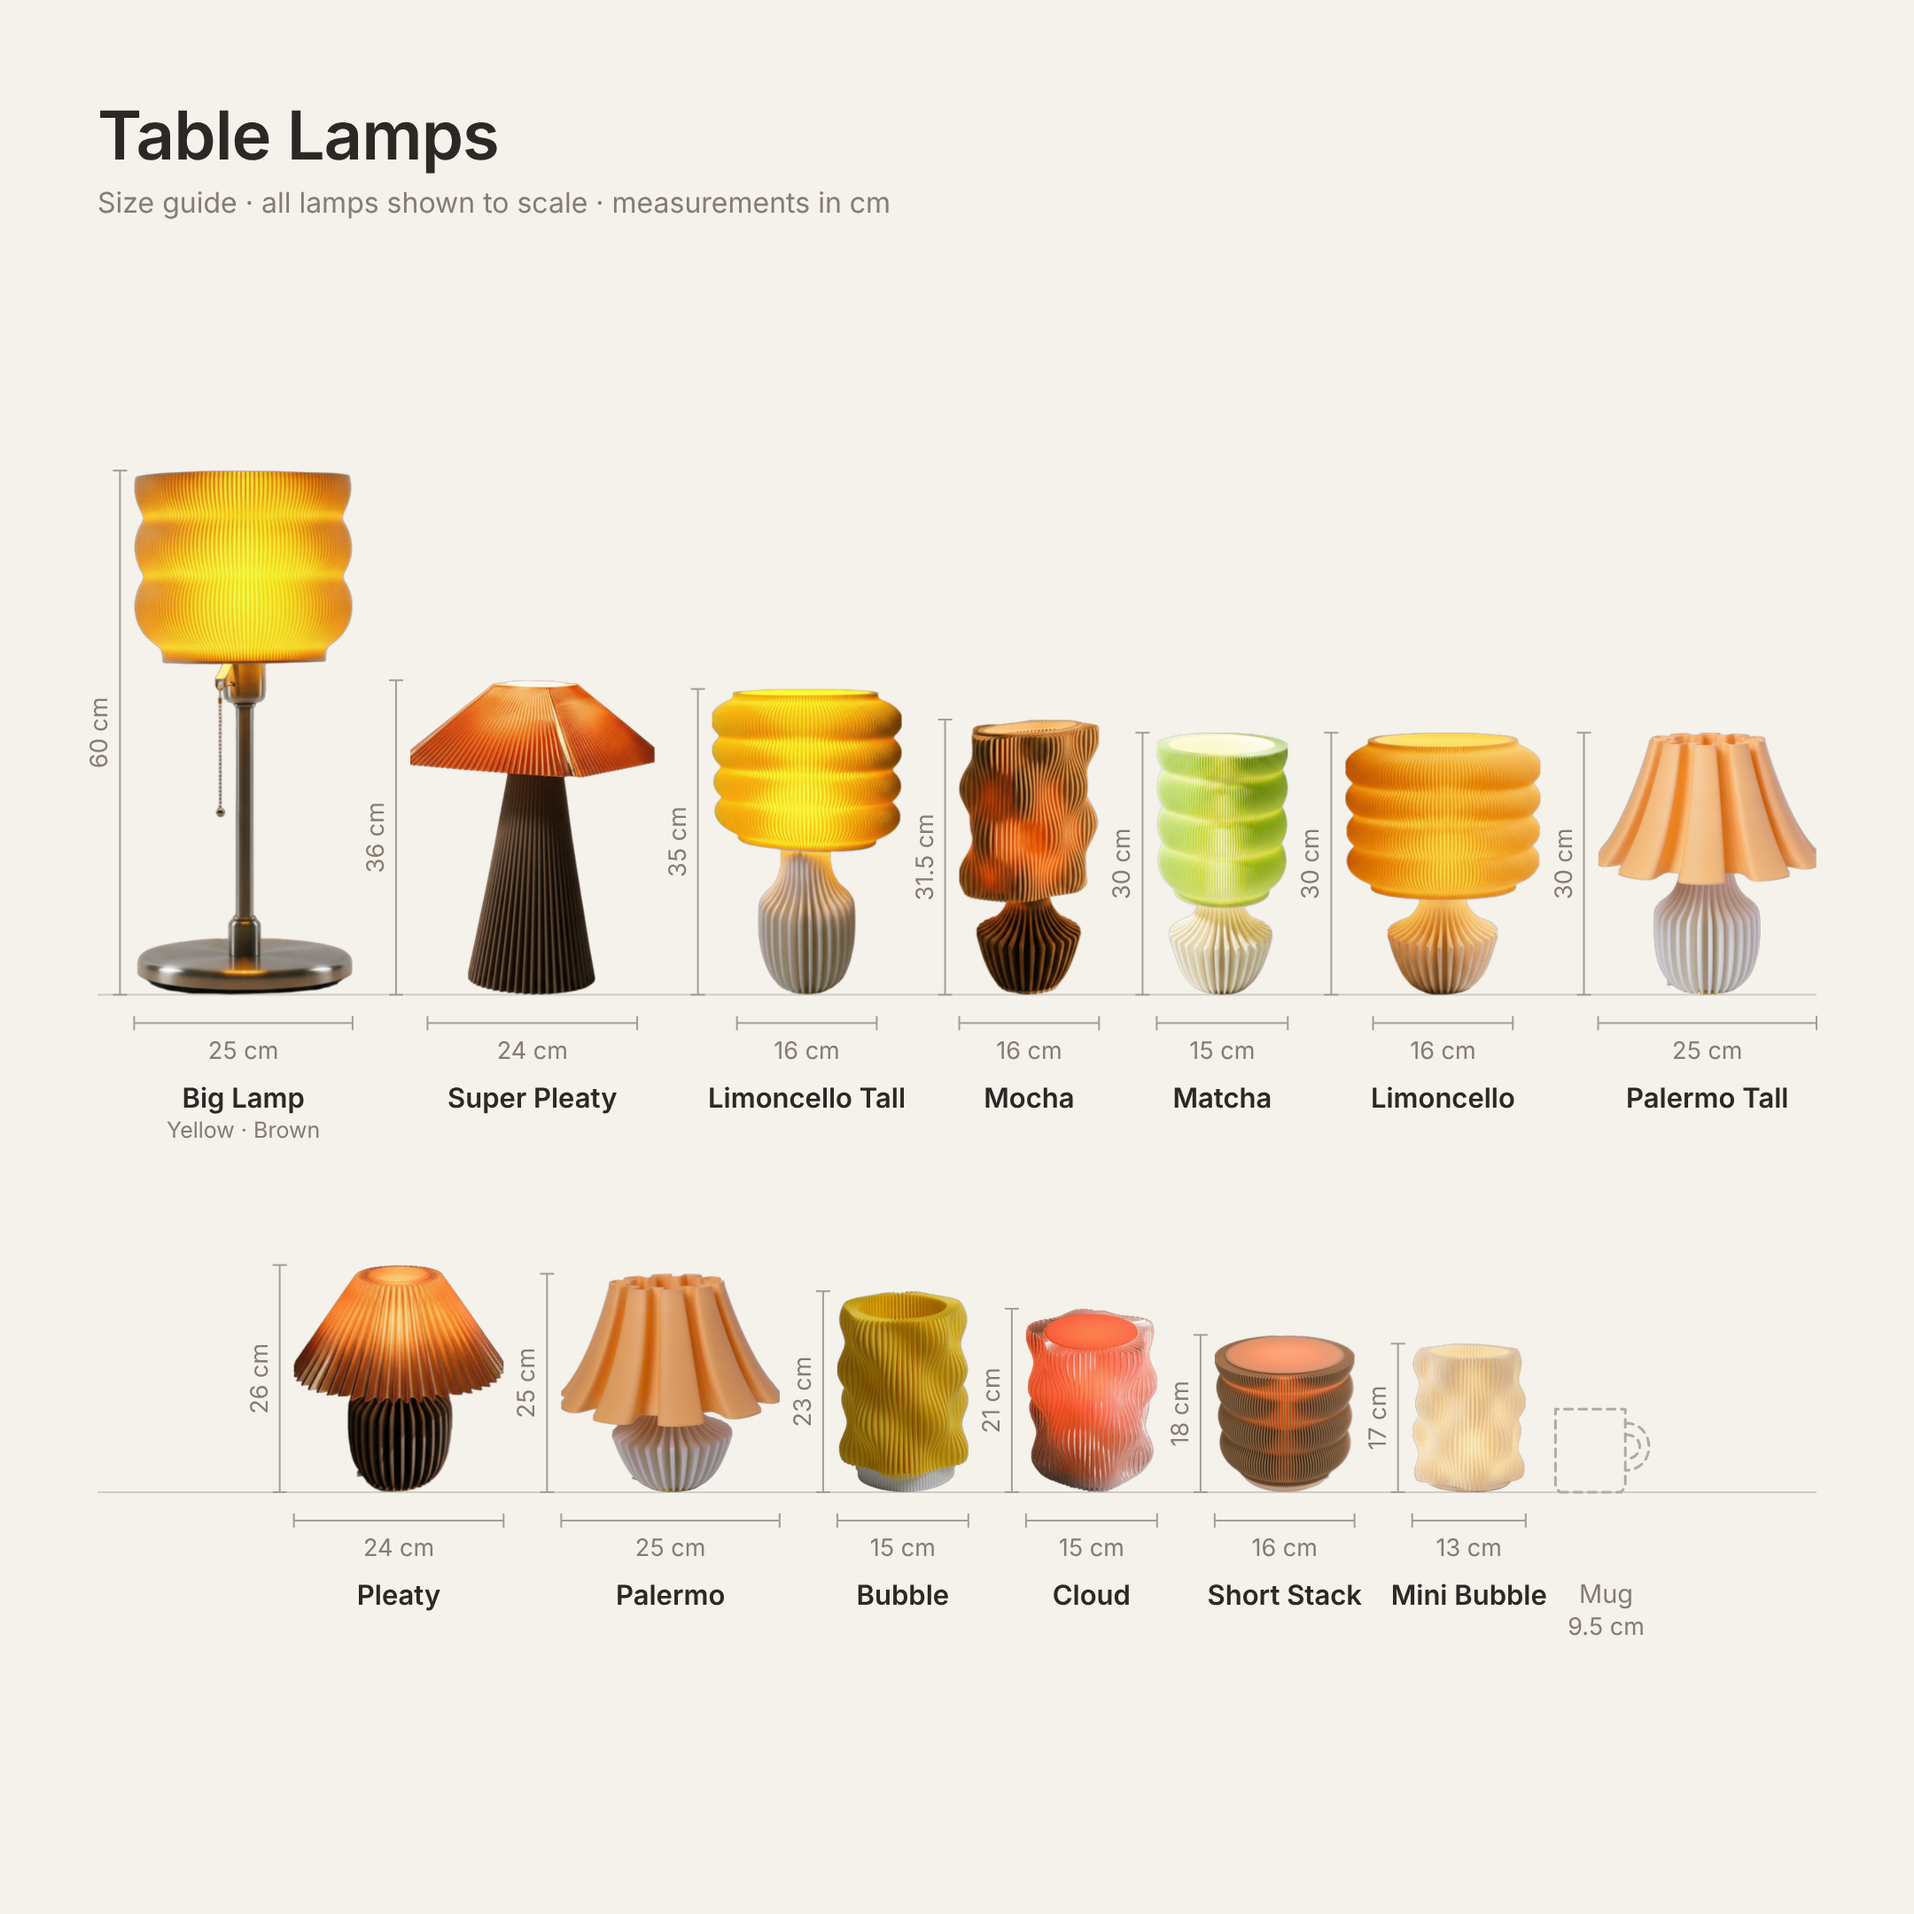
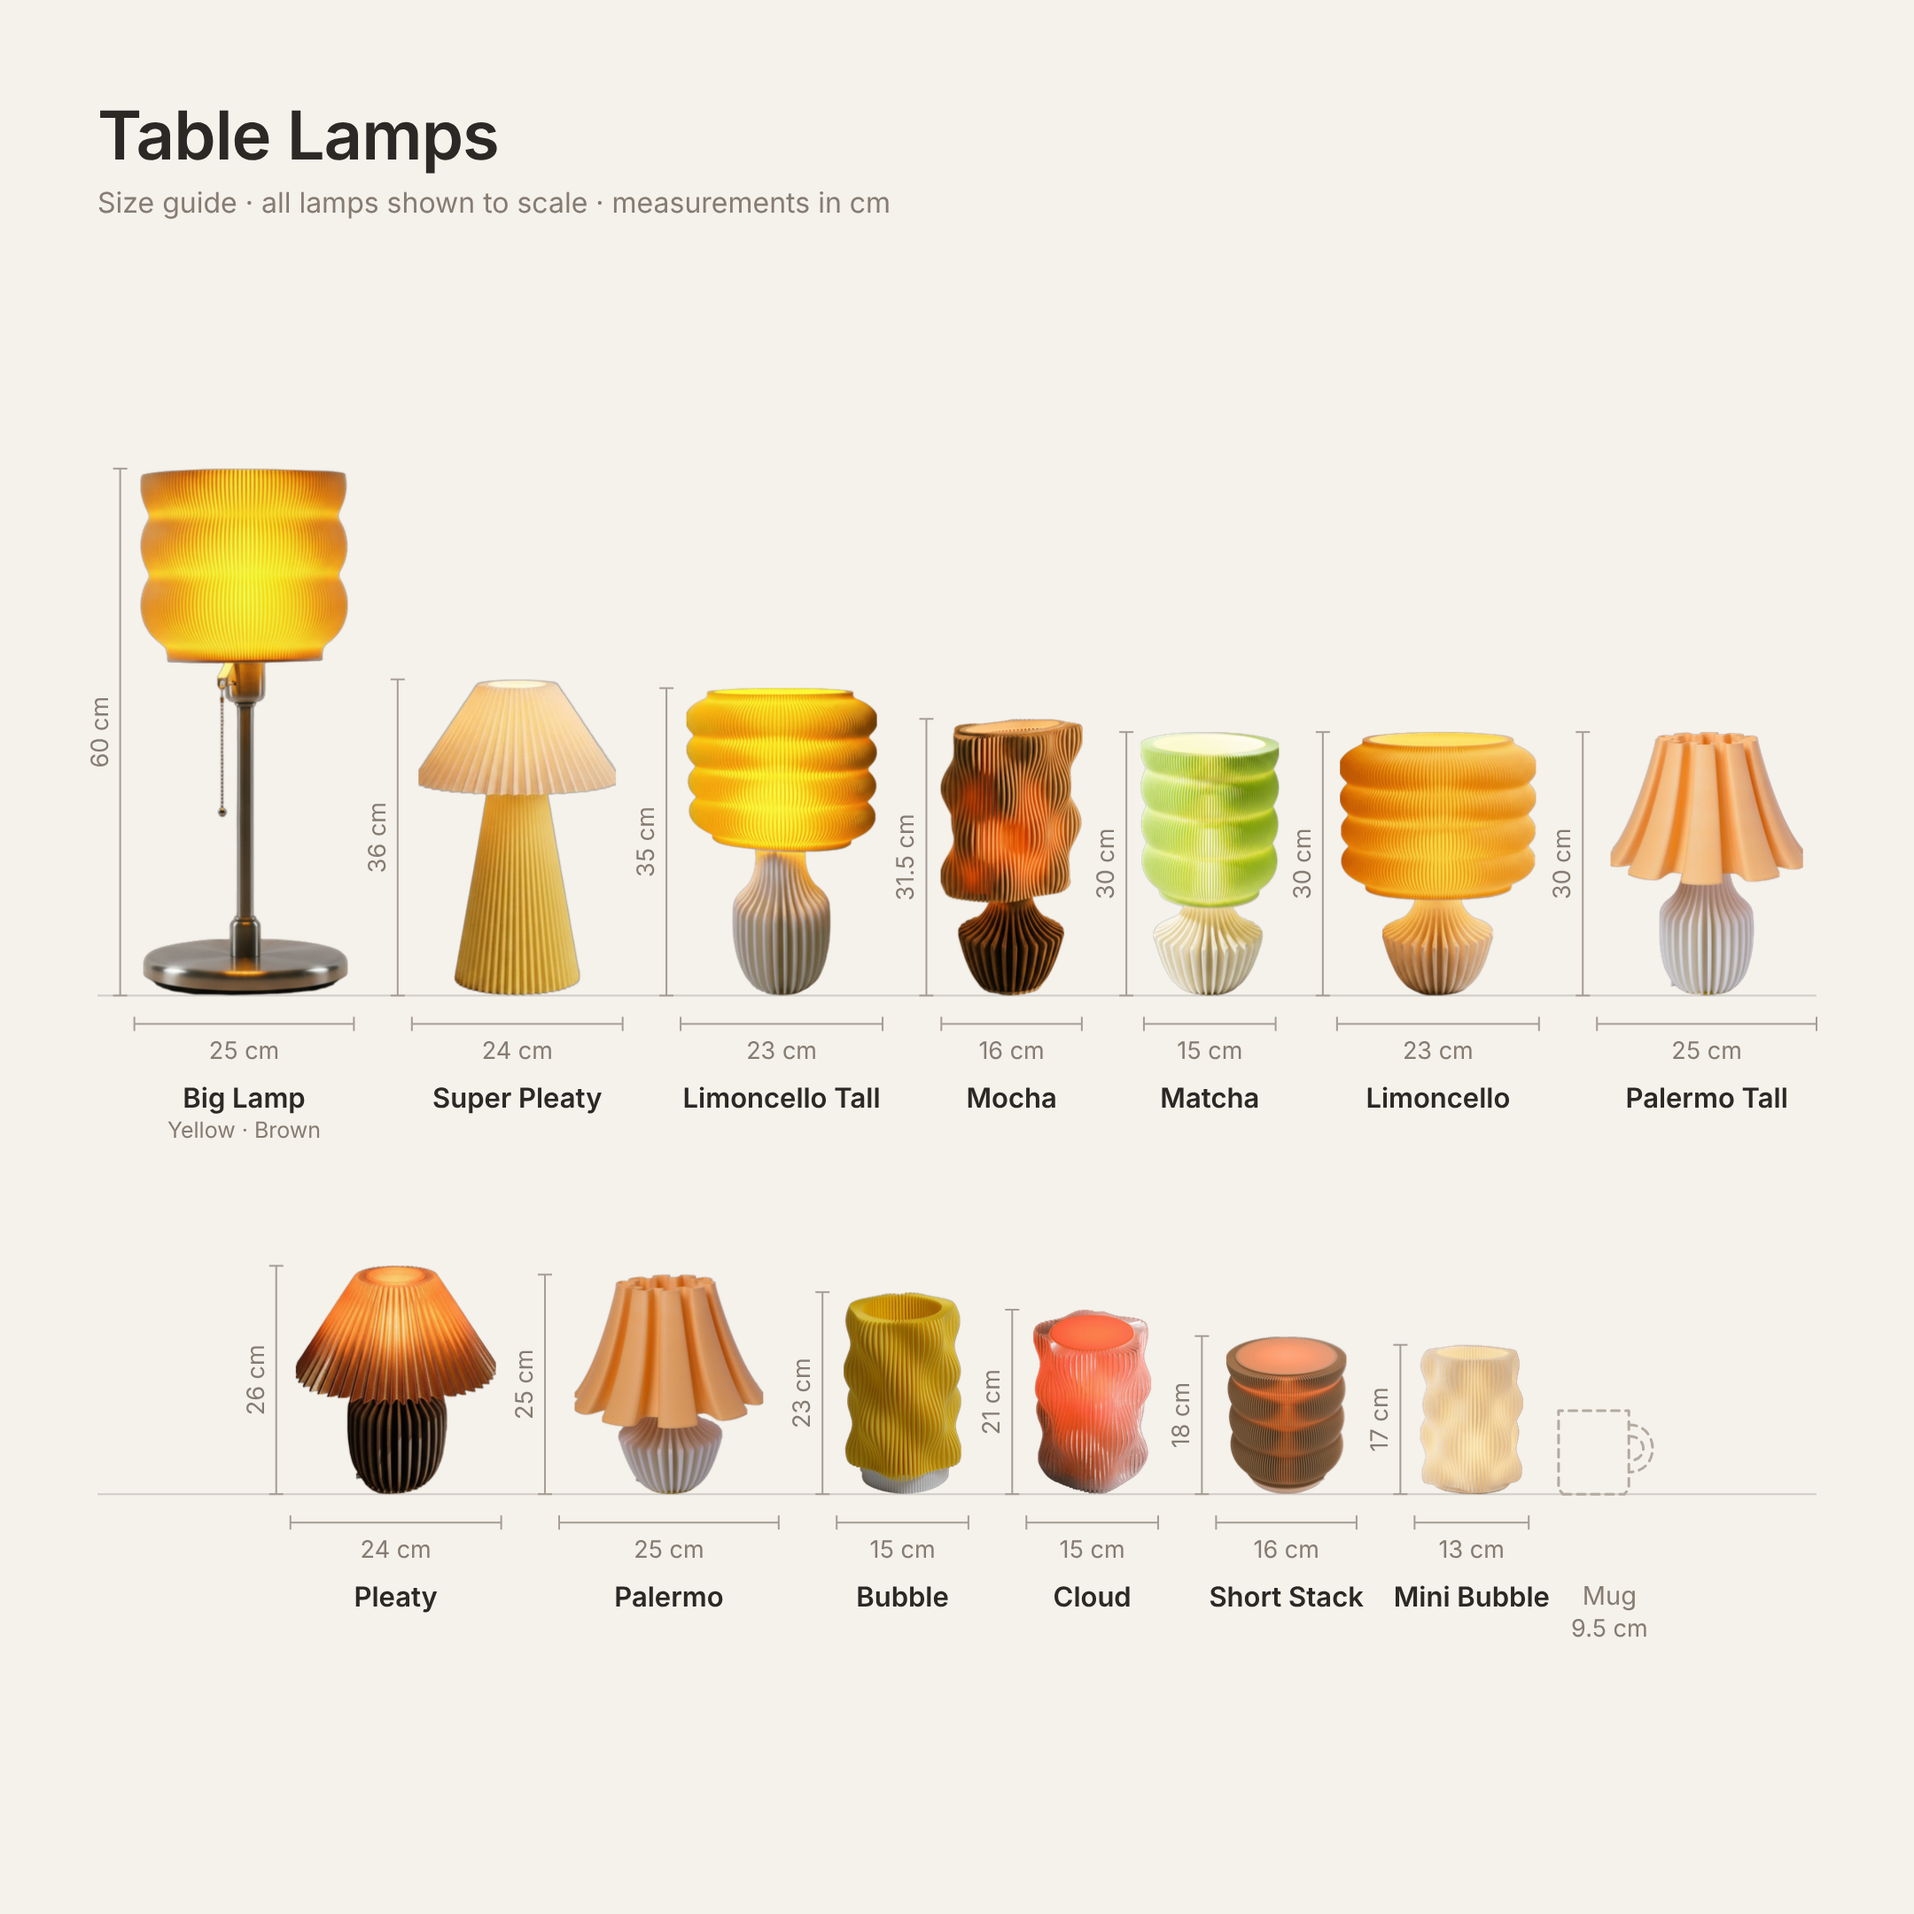
Size guides: no stretching, corrected widths, round Super Pleaty and new Astro photo
Claude-Session: https://claude.ai/code/session_01DdiNAaQ1sSSiURw1iZ4bfB

diff --git a/lamp-size-guide/make_size_guide.py b/lamp-size-guide/make_size_guide.py
@@ -7,7 +7,7 @@ INK = "#2B2825"; BG = "#F5F1EB"; DIM = "#A59D93"; SUB = "#857C72"; MUG = "#B3AAA
 RES = 4.2   # cm reserved left of each lamp for the height line
 GAP = 2.4   # cm between items
 
-DECABLE = {"palermo_07", "palermotall_08", "pleaty_00", "shortstack_10", "superpleaty_16", "cloud_00", "matcha_09", "limtall_00", "limoncello_07", "mocha_00", "bubble_11", "minibubble_00"}
+DECABLE = {"palermo_07", "palermotall_08", "pleaty_00", "shortstack_10", "superpleaty_16", "superpleaty_28", "cloud_00", "matcha_09", "limtall_00", "limoncello_07", "mocha_00", "bubble_11", "minibubble_00"}
 
 def decable(im, k=25):
     from scipy import ndimage
@@ -32,7 +32,7 @@ def load(name, pendant=False):
     y0, y1, x0, x1 = rows[0], rows[-1], cols[0], cols[-1]
     if pendant:  # drop the hanging cord above the housing
         w = m.sum(1); mx = w.max()
-        while y0 < y1 and w[y0] < 0.12 * mx:
+        while y0 < y1 and not (w[y0:y0+60] >= 0.12 * mx).all():
             y0 += 1
     else:        # drop thin cables lying beside the lamp
         h = m[y0:y1+1].sum(0); hmax = y1 - y0
@@ -78,8 +78,6 @@ class Item:
         self.aspect = 8.6 / 9.5 if self.mug else self.im.width / self.im.height  # mug body+handle ≈ 11.6 wide
         if not self.mug:
             self.photo_w = H * self.aspect
-            if abs(self.photo_w - W) / W <= 0.16:   # small camera-angle difference: match the listed width
-                self.aspect = W / H
     def width_cm(self):
         return 11.6 if self.mug else max(self.H * self.aspect, self.W)
     def footprint(self):
@@ -127,9 +125,9 @@ def svg(body):
 SUBTITLE = "Size guide · all lamps shown to scale · measurements in cm"
 
 def table():
-    r1 = [Item("Big Lamp", "Yellow · Brown", "big_00", 60, 25), Item("Super Pleaty", "", "superpleaty_16", 36, 24),
-          Item("Limoncello Tall", "", "limtall_00", 35, 16), Item("Mocha", "", "mocha_00", 31.5, 16),
-          Item("Matcha", "", "matcha_09", 30, 15), Item("Limoncello", "", "limoncello_07", 30, 16),
+    r1 = [Item("Big Lamp", "Yellow · Brown", "big_00", 60, 25), Item("Super Pleaty", "", "superpleaty_28", 36, 24),
+          Item("Limoncello Tall", "", "limtall_00", 35, 23), Item("Mocha", "", "mocha_00", 31.5, 16),
+          Item("Matcha", "", "matcha_09", 30, 15), Item("Limoncello", "", "limoncello_07", 30, 23),
           Item("Palermo Tall", "", "palermotall_08", 30, 25)]
     r2 = [Item("Pleaty", "", "pleaty_00", 26, 24), Item("Palermo", "", "palermo_07", 25, 25),
           Item("Bubble", "", "bubble_11", 23, 15), Item("Cloud", "", "cloud_00", 21, 15),
@@ -155,7 +153,7 @@ def table():
 def pendants():
     global GAP
     GAP = 6
-    row = [Item("Cosmo", "", "cosmo_02", 29, 21, True), Item("Astro", "", "astro_00", 27, 26, True),
+    row = [Item("Cosmo", "", "cosmo_02", 29, 21, True), Item("Astro", "", "astro_05", 27, 26, True),
            Item("Otto", "", "otto_01", 25, 15, True)]
     for it in row:
         print(f"{it.name:16s} photo width {it.H*it.aspect:5.1f} cm vs listed {it.W}")
